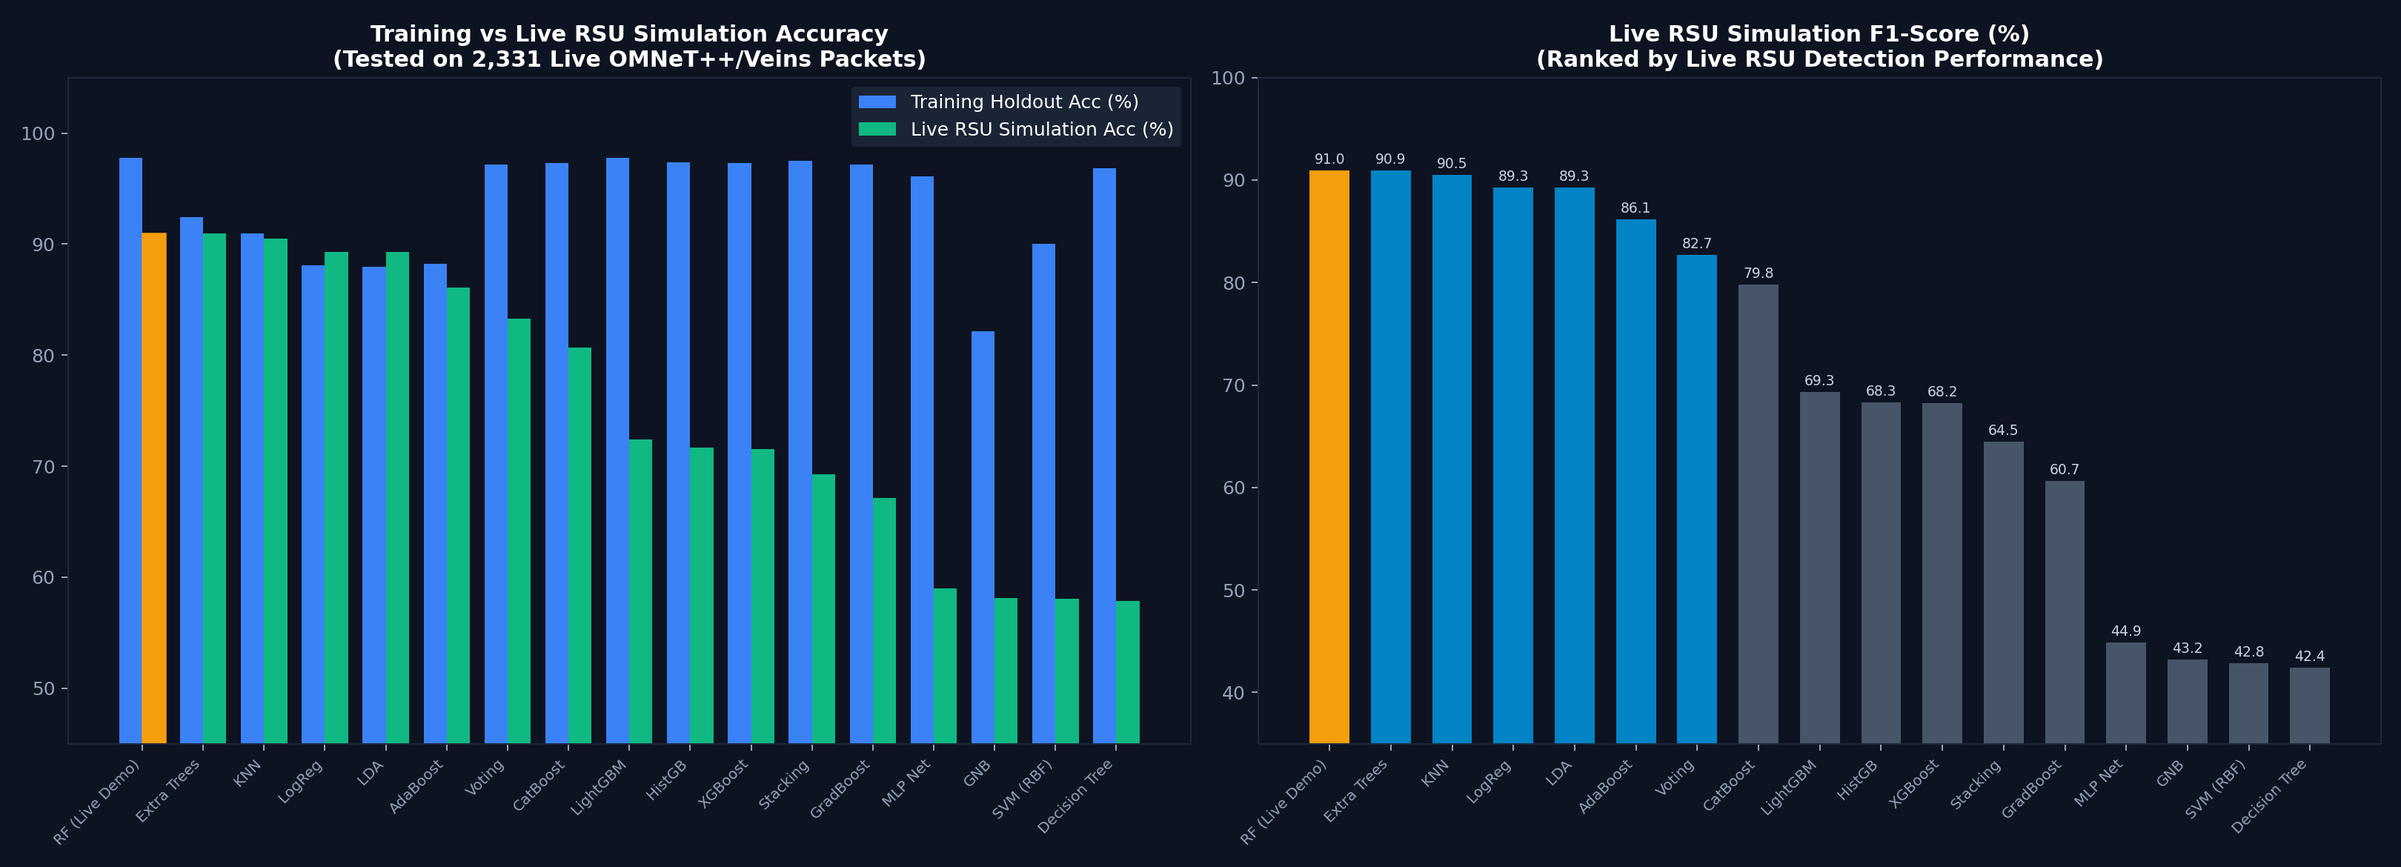
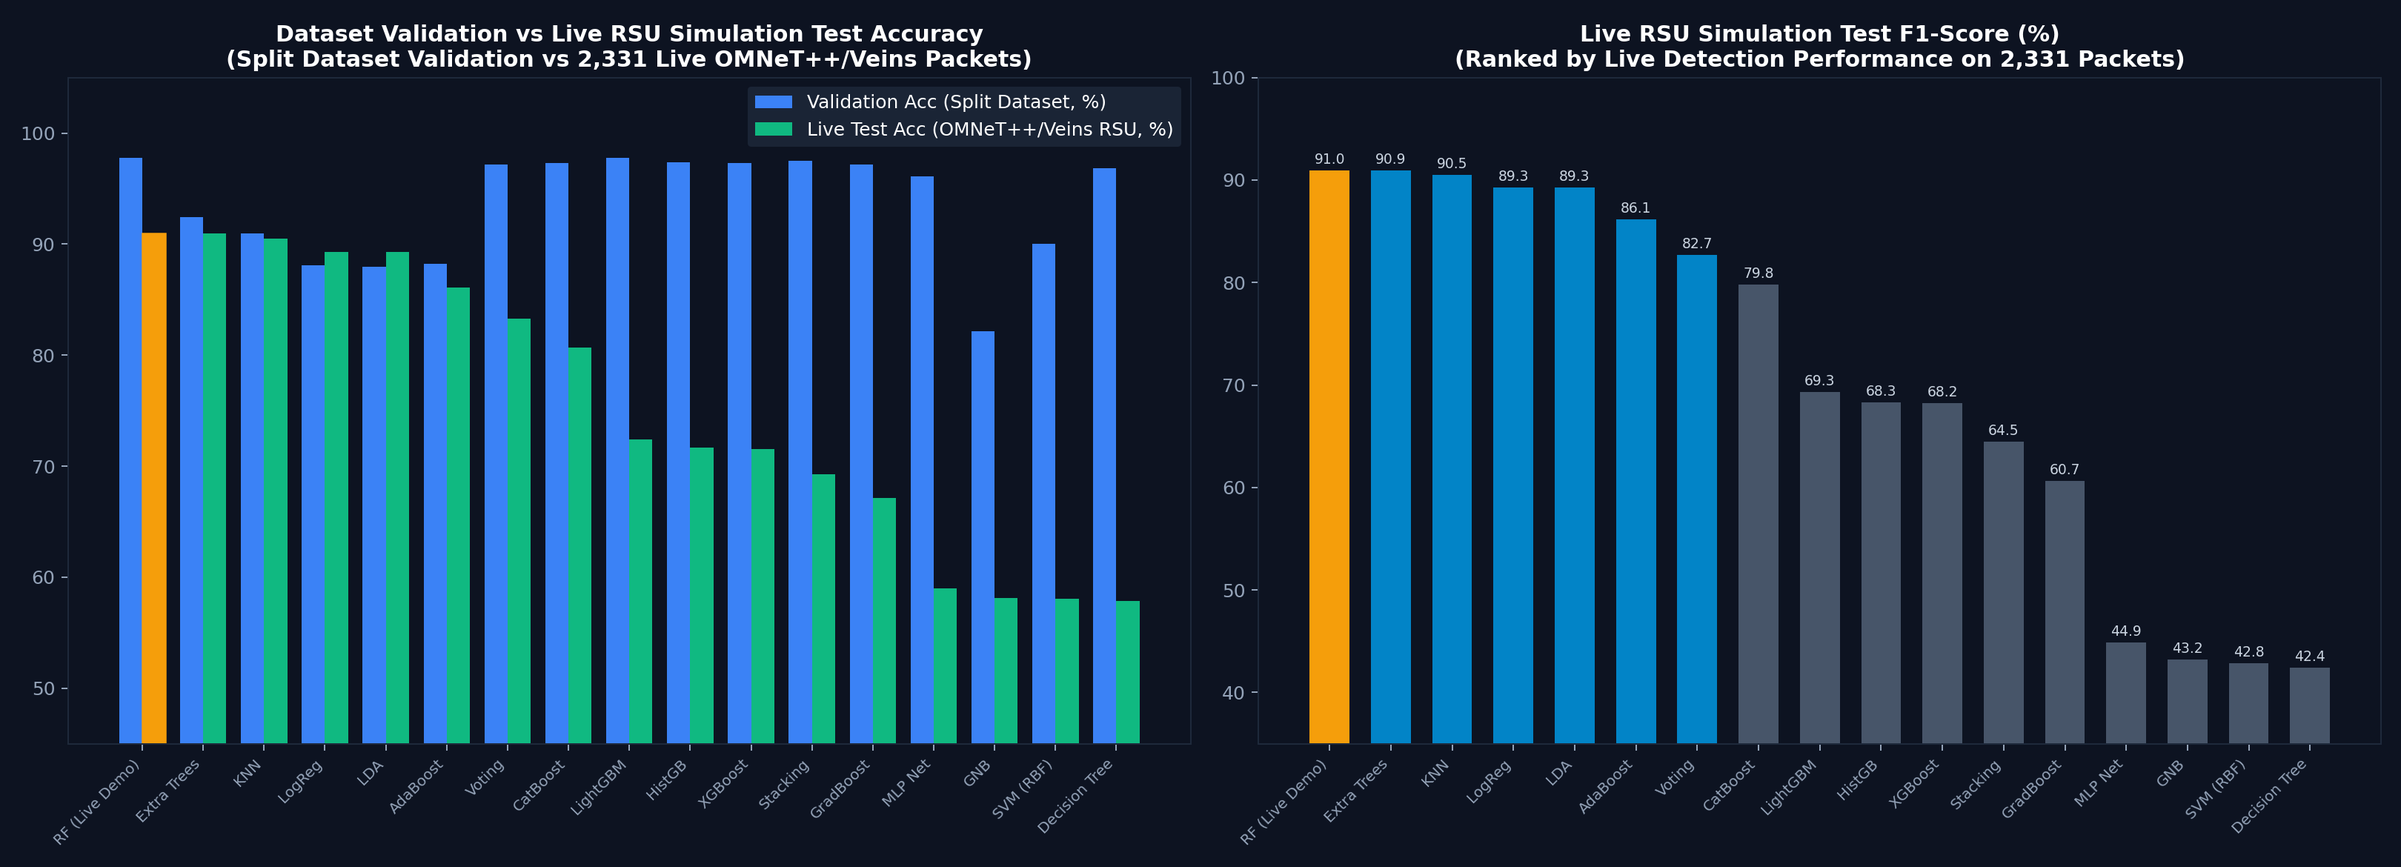
fix(slides): clearly distinguish dataset validation vs live RSU testing in slides and charts

Changed region(s): [[0.0935, 0.0308, 0.4988, 0.1538], [0.5923, 0.0308, 0.904, 0.0923]]

diff --git a/scripts/generate_slide_charts.py b/scripts/generate_slide_charts.py
@@ -23,32 +23,36 @@ RESULTS_DIR = os.path.join(BASE_DIR, 'results')
 os.makedirs(RESULTS_DIR, exist_ok=True)
 
 # ── Live OMNeT++ / Veins RSU Simulation Data ──────────────────────
+# ── Live OMNeT++ / Veins RSU Simulation Test Data ───────────────────
+# Validation Acc is from the Split Dataset (results/unified_model_metrics.json, 3,539 samples)
+# Live Acc/F1/Latency is from Live OMNeT++/Veins RSU Simulation (2,331 packets)
 LIVE_DATA = [
-    {"rank": 1,  "name": "Random Forest",          "live_acc": 90.99, "live_f1": 90.97, "live_auc": 90.59, "far": 11.91, "mar": 6.89,  "latency": 23499.6, "throughput": 42,    "size_kb": 6441.0, "train_acc": 97.77},
-    {"rank": 2,  "name": "Extra Trees",            "live_acc": 90.95, "live_f1": 90.94, "live_auc": 92.17, "far": 11.71, "mar": 7.12,  "latency": 24162.8, "throughput": 41,    "size_kb": 11314.0,"train_acc": 92.43},
-    {"rank": 3,  "name": "K-Nearest Neighbors",    "live_acc": 90.48, "live_f1": 90.48, "live_auc": 90.88, "far": 11.30, "mar": 8.23,  "latency": 13903.8, "throughput": 71,    "size_kb": 5045.0, "train_acc": 90.96},
-    {"rank": 4,  "name": "Logistic Regression",    "live_acc": 89.27, "live_f1": 89.28, "live_auc": 88.79, "far": 12.42, "mar": 9.49,  "latency": 82.8,    "throughput": 12084, "size_kb": 1.0,    "train_acc": 88.08},
-    {"rank": 5,  "name": "Linear Discriminant",     "live_acc": 89.27, "live_f1": 89.28, "live_auc": 88.87, "far": 12.42, "mar": 9.49,  "latency": 94.9,    "throughput": 10536, "size_kb": 1.6,    "train_acc": 87.93},
-    {"rank": 6,  "name": "AdaBoost",               "live_acc": 86.06, "live_f1": 86.14, "live_auc": 91.25, "far": 9.27,  "mar": 17.35, "latency": 5040.1,  "throughput": 198,   "size_kb": 38.9,   "train_acc": 88.25},
-    {"rank": 7,  "name": "Voting Ensemble",        "live_acc": 83.27, "live_f1": 82.72, "live_auc": 90.36, "far": 33.20, "mar": 4.74,  "latency": 39873.5, "throughput": 25,    "size_kb": 3905.0, "train_acc": 97.20},
-    {"rank": 8,  "name": "CatBoost",               "live_acc": 80.69, "live_f1": 79.79, "live_auc": 90.77, "far": 39.82, "mar": 4.37,  "latency": 118.3,   "throughput": 8452,  "size_kb": 248.0,  "train_acc": 97.29},
-    {"rank": 9,  "name": "LightGBM",               "live_acc": 72.42, "live_f1": 69.32, "live_auc": 89.77, "far": 61.10, "mar": 3.19,  "latency": 536.9,   "throughput": 1862,  "size_kb": 669.0,  "train_acc": 97.74},
-    {"rank": 10, "name": "Hist Gradient Boosting", "live_acc": 71.69, "live_f1": 68.28, "live_auc": 89.50, "far": 63.03, "mar": 3.04,  "latency": 3880.7,  "throughput": 257,   "size_kb": 653.0,  "train_acc": 97.40},
-    {"rank": 11, "name": "XGBoost",                "live_acc": 71.56, "live_f1": 68.23, "live_auc": 89.32, "far": 62.73, "mar": 3.48,  "latency": 280.2,   "throughput": 3568,  "size_kb": 464.0,  "train_acc": 97.29},
-    {"rank": 12, "name": "Stacking Ensemble",      "live_acc": 69.24, "live_f1": 64.47, "live_auc": 91.76, "far": 70.16, "mar": 2.08,  "latency": 38560.3, "throughput": 25,    "size_kb": 2256.0, "train_acc": 97.51},
-    {"rank": 13, "name": "Gradient Boosting",      "live_acc": 67.14, "live_f1": 60.67, "live_auc": 89.90, "far": 76.88, "mar": 0.82,  "latency": 237.8,   "throughput": 4205,  "size_kb": 535.0,  "train_acc": 97.17},
-    {"rank": 14, "name": "MLP Neural Network",     "live_acc": 58.99, "live_f1": 44.90, "live_auc": 76.14, "far": 97.35, "mar": 0.00,  "latency": 119.1,   "throughput": 8393,  "size_kb": 392.0,  "train_acc": 96.13},
-    {"rank": 15, "name": "Gaussian Naive Bayes",   "live_acc": 58.13, "live_f1": 43.24, "live_auc": 90.17, "far": 99.08, "mar": 0.22,  "latency": 83.6,    "throughput": 11963, "size_kb": 1.2,    "train_acc": 82.17},
-    {"rank": 16, "name": "SVM (RBF)",              "live_acc": 58.04, "live_f1": 42.82, "live_auc": 87.82, "far": 99.59, "mar": 0.00,  "latency": 255.4,   "throughput": 3915,  "size_kb": 742.0,  "train_acc": 90.03},
-    {"rank": 17, "name": "Decision Tree",          "live_acc": 57.87, "live_f1": 42.43, "live_auc": 50.00, "far": 100.0,  "mar": 0.00,  "latency": 70.9,    "throughput": 14110, "size_kb": 18.1,   "train_acc": 96.84},
+    {"rank": 1,  "name": "Random Forest",          "live_acc": 90.99, "live_f1": 90.97, "live_auc": 90.59, "far": 11.91, "mar": 6.89,  "latency": 23499.6, "throughput": 42,    "size_kb": 6441.0, "val_acc": 97.77},
+    {"rank": 2,  "name": "Extra Trees",            "live_acc": 90.95, "live_f1": 90.94, "live_auc": 92.17, "far": 11.71, "mar": 7.12,  "latency": 24162.8, "throughput": 41,    "size_kb": 11314.0,"val_acc": 92.43},
+    {"rank": 3,  "name": "K-Nearest Neighbors",    "live_acc": 90.48, "live_f1": 90.48, "live_auc": 90.88, "far": 11.30, "mar": 8.23,  "latency": 13903.8, "throughput": 71,    "size_kb": 5045.0, "val_acc": 90.96},
+    {"rank": 4,  "name": "Logistic Regression",    "live_acc": 89.27, "live_f1": 89.28, "live_auc": 88.79, "far": 12.42, "mar": 9.49,  "latency": 82.8,    "throughput": 12084, "size_kb": 1.0,    "val_acc": 88.08},
+    {"rank": 5,  "name": "Linear Discriminant",     "live_acc": 89.27, "live_f1": 89.28, "live_auc": 88.87, "far": 12.42, "mar": 9.49,  "latency": 94.9,    "throughput": 10536, "size_kb": 1.6,    "val_acc": 87.93},
+    {"rank": 6,  "name": "AdaBoost",               "live_acc": 86.06, "live_f1": 86.14, "live_auc": 91.25, "far": 9.27,  "mar": 17.35, "latency": 5040.1,  "throughput": 198,   "size_kb": 38.9,   "val_acc": 88.25},
+    {"rank": 7,  "name": "Voting Ensemble",        "live_acc": 83.27, "live_f1": 82.72, "live_auc": 90.36, "far": 33.20, "mar": 4.74,  "latency": 39873.5, "throughput": 25,    "size_kb": 3905.0, "val_acc": 97.20},
+    {"rank": 8,  "name": "CatBoost",               "live_acc": 80.69, "live_f1": 79.79, "live_auc": 90.77, "far": 39.82, "mar": 4.37,  "latency": 118.3,   "throughput": 8452,  "size_kb": 248.0,  "val_acc": 97.29},
+    {"rank": 9,  "name": "LightGBM",               "live_acc": 72.42, "live_f1": 69.32, "live_auc": 89.77, "far": 61.10, "mar": 3.19,  "latency": 536.9,   "throughput": 1862,  "size_kb": 669.0,  "val_acc": 97.74},
+    {"rank": 10, "name": "Hist Gradient Boosting", "live_acc": 71.69, "live_f1": 68.28, "live_auc": 89.50, "far": 63.03, "mar": 3.04,  "latency": 3880.7,  "throughput": 257,   "size_kb": 653.0,  "val_acc": 97.40},
+    {"rank": 11, "name": "XGBoost",                "live_acc": 71.56, "live_f1": 68.23, "live_auc": 89.32, "far": 62.73, "mar": 3.48,  "latency": 280.2,   "throughput": 3568,  "size_kb": 464.0,  "val_acc": 97.29},
+    {"rank": 12, "name": "Stacking Ensemble",      "live_acc": 69.24, "live_f1": 64.47, "live_auc": 91.76, "far": 70.16, "mar": 2.08,  "latency": 38560.3, "throughput": 25,    "size_kb": 2256.0, "val_acc": 97.51},
+    {"rank": 13, "name": "Gradient Boosting",      "live_acc": 67.14, "live_f1": 60.67, "live_auc": 89.90, "far": 76.88, "mar": 0.82,  "latency": 237.8,   "throughput": 4205,  "size_kb": 535.0,  "val_acc": 97.17},
+    {"rank": 14, "name": "MLP Neural Network",     "live_acc": 58.99, "live_f1": 44.90, "live_auc": 76.14, "far": 97.35, "mar": 0.00,  "latency": 119.1,   "throughput": 8393,  "size_kb": 392.0,  "val_acc": 96.13},
+    {"rank": 15, "name": "Gaussian Naive Bayes",   "live_acc": 58.13, "live_f1": 43.24, "live_auc": 90.17, "far": 99.08, "mar": 0.22,  "latency": 83.6,    "throughput": 11963, "size_kb": 1.2,    "val_acc": 82.17},
+    {"rank": 16, "name": "SVM (RBF)",              "live_acc": 58.04, "live_f1": 42.82, "live_auc": 87.82, "far": 99.59, "mar": 0.00,  "latency": 255.4,   "throughput": 3915,  "size_kb": 742.0,  "val_acc": 90.03},
+    {"rank": 17, "name": "Decision Tree",          "live_acc": 57.87, "live_f1": 42.43, "live_auc": 50.00, "far": 100.0,  "mar": 0.00,  "latency": 70.9,    "throughput": 14110, "size_kb": 18.1,   "val_acc": 96.84},
 ]
 
 # Save JSON file
 json_path = os.path.join(RESULTS_DIR, 'live_rsu_simulation_benchmark.json')
 with open(json_path, 'w') as f:
     json.dump({
-        "dataset_name": "OMNeT++ / Veins Live RSU Simulation Telemetry",
-        "sample_count": 2331,
+        "environment": "OMNeT++ / Veins Live RSU Simulation",
+        "description": "Validation performed on Split Dataset; Testing performed on Live RSU Environment",
+        "live_test_packets": 2331,
         "attack_packets": 1349,
         "legitimate_packets": 982,
         "models": LIVE_DATA
@@ -79,7 +83,7 @@ short_names = [
 
 
 # ═══════════════════════════════════════════════════════════════════
-# CHART 1: Training Accuracy vs Live RSU Simulation Accuracy & F1
+# CHART 1: Dataset Validation vs Live RSU Simulation Test Accuracy & F1
 # ═══════════════════════════════════════════════════════════════════
 def plot_live_vs_training():
     fig, (ax1, ax2) = plt.subplots(1, 2, figsize=(18, 6.5))
@@ -88,15 +92,15 @@ def plot_live_vs_training():
     x = np.arange(len(LIVE_DATA))
     width = 0.38
     
-    train_accs = [m['train_acc'] for m in LIVE_DATA]
-    live_accs  = [m['live_acc']  for m in LIVE_DATA]
-    live_f1s   = [m['live_f1']   for m in LIVE_DATA]
+    val_accs  = [m['val_acc']  for m in LIVE_DATA]
+    live_accs = [m['live_acc'] for m in LIVE_DATA]
+    live_f1s  = [m['live_f1']  for m in LIVE_DATA]
     
-    # Left: Train vs Live Accuracy
+    # Left: Validation vs Live Test Accuracy
     ax1.set_facecolor('#0d1321')
-    b1 = ax1.bar(x - width/2, train_accs, width, label='Training Holdout Acc (%)', color='#3b82f6')
-    b2 = ax1.bar(x + width/2, live_accs,  width, label='Live RSU Simulation Acc (%)', color='#10b981')
-    ax1.set_title('Training vs Live RSU Simulation Accuracy\n(Tested on 2,331 Live OMNeT++/Veins Packets)',
+    b1 = ax1.bar(x - width/2, val_accs,  width, label='Validation Acc (Split Dataset, %)', color='#3b82f6')
+    b2 = ax1.bar(x + width/2, live_accs, width, label='Live Test Acc (OMNeT++/Veins RSU, %)', color='#10b981')
+    ax1.set_title('Dataset Validation vs Live RSU Simulation Test Accuracy\n(Split Dataset Validation vs 2,331 Live OMNeT++/Veins Packets)',
                   color='white', fontsize=12, fontweight='bold')
     ax1.set_xticks(x)
     ax1.set_xticklabels(short_names, rotation=45, ha='right', color='#94a3b8', fontsize=8)
@@ -108,11 +112,11 @@ def plot_live_vs_training():
     # Highlight top model bar
     b2[0].set_color('#f59e0b')
     
-    # Right: Live F1 Score
+    # Right: Live Test F1 Score
     ax2.set_facecolor('#0d1321')
     colors_f1 = ['#f59e0b' if i == 0 else ('#0284c7' if m['live_f1'] >= 80 else '#475569') for i, m in enumerate(LIVE_DATA)]
     b3 = ax2.bar(x, live_f1s, color=colors_f1, width=0.65)
-    ax2.set_title('Live RSU Simulation F1-Score (%)\n(Ranked by Live RSU Detection Performance)',
+    ax2.set_title('Live RSU Simulation Test F1-Score (%)\n(Ranked by Live Detection Performance on 2,331 Packets)',
                   color='white', fontsize=12, fontweight='bold')
     ax2.set_xticks(x)
     ax2.set_xticklabels(short_names, rotation=45, ha='right', color='#94a3b8', fontsize=8)

diff --git a/ppt and report/ml_slides.tex b/ppt and report/ml_slides.tex
@@ -6,12 +6,9 @@
     \framesubtitle{Rubric: Methodology -- Datasets \& Preprocessing}
     \small
     \begin{itemize}
-        \item \textbf{Published Research Dataset (Kaggle):} Open-sourced on \href{https://www.kaggle.com/datasets/mouniksai/vehicular-misbehavior-dataset-edgetrust-vanet/data}{\textbf{\underline{Kaggle}}} (\texttt{EdgeTrust-VANET}) for community reproducibility and open-access V2X benchmarking.
+        \item \textbf{Published Benchmark Dataset (Kaggle):} Open-sourced on \href{https://www.kaggle.com/datasets/mouniksai/vehicular-misbehavior-dataset-edgetrust-vanet/data}{\textbf{\underline{Kaggle}}} (\texttt{EdgeTrust-VANET}) for community reproducibility.
         
-        \item \textbf{Multi-Source ETL Pipeline (23{,}970 records):} Ingested, standardized, and harmonized 3 heterogeneous VANET simulation sources into a unified schema:
-        \begin{itemize}
-            \item \textbf{VeReMi (72.9\%)} + \textbf{EdgeTrust-VANET (20.9\%)} + \textbf{V-RADD (6.3\%)} [70.6\% Benign, 29.4\% Malicious].
-        \end{itemize}
+        \item \textbf{Multi-Source ETL Harmonization (23{,}970 records):} Standardized 3 corpora into a unified schema: \textbf{VeReMi (72.9\%)}, \textbf{EdgeTrust-VANET (20.9\%)}, \textbf{V-RADD (6.3\%)} [70.6\% Benign, 29.4\% Attack across 6 vectors].
         
         \item \textbf{14 RSU-Observable Features Derived (Zero Leakage):}
         \begin{itemize}
@@ -20,33 +17,45 @@
             \item \textbf{Trust Engine (3):} Direct trust ($T_t$), 300\,m KD-Tree neighbor avg, historical trust.
         \end{itemize}
         
-        \item \textbf{Audit \& Group Splitting:} Purged 4 post-hoc counters that cause live collapse (100\% $\rightarrow$ 86.05\% F1); enforced zero trajectory overlap via \textbf{GroupKFold by Vehicle ID} (70/15/15).
+        \item \textbf{Zero-Leakage Group Splitting:} Purged 4 post-hoc label counters ($100\% \to 86.05\%$ without them); partitioned strictly by \textbf{Vehicle ID (\texttt{node\_id})} (70/15/15) to eliminate trajectory autocorrelation.
         
-        \item \textbf{Result:} Genuine \textbf{97.74\% Weighted F1} on unseen vehicles; verified \textbf{90.99\% Live Accuracy} in OMNeT++/Veins RSU deployment.
+        \item \textbf{Rigorous 2-Stage Evaluation:}
+        \begin{itemize}
+            \item \textbf{Validation (Split Dataset):} \textbf{97.74\% F1} / \textbf{97.77\% Acc} (5-fold CV: \textbf{96.95\% $\pm$ 1.12\%}).
+            \item \textbf{Testing (Live OMNeT++/Veins RSU):} \textbf{90.99\% Acc} / \textbf{90.97\% F1} on 2{,}331 packets.
+        \end{itemize}
     \end{itemize}
 \end{frame}
 
 % =====================================================
-% SLIDE: ML MODEL TRAINING & RESULTS
+% SLIDE: ML MODEL TRAINING & BENCHMARK RESULTS
 % =====================================================
-\begin{frame}{3. ML Model Training \& Benchmark Results}
+\begin{frame}{3. Model Validation \& Live RSU Testing Benchmark}
     \framesubtitle{Rubric: Core Algorithms \& Evaluation Metrics}
     \begin{columns}
-        \column{0.44\textwidth}
-        \footnotesize
+        \column{0.48\textwidth}
+        \scriptsize
         \begin{itemize}
-            \item Benchmarked \textbf{17 ML models} across 5 families: Tree Ensembles, Modern GBDTs (XGBoost, LightGBM, CatBoost, HistGB), Linear/Kernel/Instance (SVM, KNN, LogReg, LDA), MLP Neural Net, and Stacking/Voting Ensembles.
-            \item Validated on \textbf{2{,}331 live RSU-extracted telemetry samples} (1{,}349 attack, 982 legitimate packets) in OMNeT++ / Veins:
+            \item \textbf{17 Models Evaluated} across Ensembles, GBDTs, Linear, Kernel, and Neural Network architectures.
+            
+            \item \textbf{Validation (Split Dataset -- 3{,}539 samples):}
             \begin{itemize}
-                \item \textbf{\#1 Top Champion:} \textbf{Random Forest} -- \textbf{90.99\% Live Acc}, \textbf{90.97\% Live F1}, 90.59\% ROC-AUC, lowest missed attack rate (\textbf{6.89\%}).
-                \item \textbf{Runner-up Ensembles:} Extra Trees (90.95\% Acc) and KNN (90.48\% Acc).
-                \item \textbf{Ultra-High Throughput Edge Leaders:} Logistic Regression \& LDA -- \textbf{89.28\% Live F1}, \textbf{82.8 $\mu$s} latency, \textbf{12{,}084 pkt/s}, \textbf{1.0 KB} size.
-                \item \textbf{Best Edge GBDT:} CatBoost -- \textbf{79.79\% F1}, 90.77\% ROC-AUC, \textbf{118.3 $\mu$s}, \textbf{8{,}452 pkt/s}, 248 KB.
+                \item 5-Fold Stratified Group CV: \textbf{96.95\% $\pm$ 1.12\%}.
+                \item Top models: RF (\textbf{97.77\% Acc}, \textbf{97.74\% F1}), LightGBM (\textbf{97.74\% Acc}), CatBoost (\textbf{97.29\% Acc}).
             \end{itemize}
+            
+            \item \textbf{Testing (Live OMNeT++/Veins RSU -- 2{,}331 pkts):}
+            \begin{itemize}
+                \item \textbf{\#1 Top Champion:} \textbf{Random Forest} -- \textbf{90.99\% Test Acc}, \textbf{90.97\% Test F1}, lowest missed attack rate (\textbf{6.89\%}).
+                \item \textbf{Ultra-Fast Edge Leaders:} \textbf{LogReg \& LDA} -- \textbf{89.28\% Test F1}, \textbf{82.8 $\mu$s} latency ($>12{,}000$ pkt/s), \textbf{1.0 KB} footprint.
+                \item \textbf{Top Edge GBDT:} \textbf{CatBoost} -- \textbf{79.79\% Test F1}, \textbf{90.77\% ROC-AUC}, \textbf{118.3 $\mu$s}, 248 KB.
+            \end{itemize}
+            
+            \item \textbf{Key Live Finding:} Live radio jitter caused MLP/SVM to collapse (FAR $>97\%$), while Tree Ensembles remained robust.
         \end{itemize}
-        \column{0.56\textwidth}
+        \column{0.52\textwidth}
         \centering
-        \includegraphics[width=\linewidth]{vanet_comparison.png}
+        \includegraphics[width=\linewidth,keepaspectratio]{vanet_comparison.png}
     \end{columns}
 \end{frame}
 
@@ -115,8 +124,8 @@
         \begin{itemize}
             \item \textbf{RSU Hardware Trade-off:}
             \begin{itemize}
-                \item \textbf{Multi-Core Edge Servers:} \textbf{Random Forest} provides maximum detection accuracy (\textbf{90.99\% Live Acc}, \textbf{90.97\% F1}) and lowest missed attacks (6.89\%).
-                \item \textbf{Ultra-Constrained RSUs:} \textbf{Logistic Regression \& LDA} execute in \textbf{82.8 $\mu$s} ($>12{,}000$ pkt/s) with a tiny \textbf{1.0 KB} memory footprint and \textbf{89.28\% Live F1}.
+                \item \textbf{Multi-Core Edge Servers:} \textbf{Random Forest} yields top performance (\textbf{97.77\% Val Acc}, \textbf{90.99\% Live Test Acc}, \textbf{90.97\% Live F1}) and lowest missed attacks (\textbf{6.89\%}).
+                \item \textbf{Ultra-Constrained RSUs:} \textbf{Logistic Regression \& LDA} execute in \textbf{82.8 $\mu$s} ($>12{,}000$ pkt/s) with a tiny \textbf{1.0 KB} footprint and \textbf{89.28\% Live Test F1}.
                 \item \textbf{Balanced GBDT:} \textbf{CatBoost} delivers \textbf{8{,}452 pkt/s} at \textbf{118 $\mu$s} latency and \textbf{248 KB} footprint with 90.77\% ROC-AUC.
             \end{itemize}
         \end{itemize}
@@ -159,16 +168,12 @@
 \section{Technical Knowledge}
 \begin{frame}{10. Technical Knowledge \& Design Decisions}
     \framesubtitle{Rubric: Understanding of Methodology, Implementation \& Design Choices}
+    \small
     \begin{itemize}
-        \item \textbf{Why Tree Ensembles Win in Live VANETs:} Physical vehicular telemetry exhibits hard non-linear boundaries (e.g. packet drop ratio $> 0.40$, trust $< 0.40$). Bagging in Random Forest aggregates 150 orthogonal trees, effectively filtering non-Gaussian radio noise and achieving the lowest missed attack rate (\textbf{6.89\%}).
-        \item \textbf{Eliminating Trajectory Leakage:} Random row splitting inflates scores (99.29\% F1) due to temporal autocorrelation. Enforcing \textbf{Group-based vehicle splitting (\texttt{node\_id})} guarantees zero vehicle overlap and honest generalization.
-        \item \textbf{Why $\alpha = 0.70$ in EMA Trust Engine:} Balances historical vehicle stability with rapid anomaly reaction; persistently penalizes attackers within 4 packets without overreacting to single-packet sensor jitter.
-        \item \textbf{Two-Tier RSU Hybrid Architecture:}
-        \begin{itemize}
-            \item Tier 1: Real-time heuristic trust engine executes in $O(1)$ time on every received 802.11p beacon.
-            \item Tier 2: 14-feature ML model predicts transmission integrity.
-            \item \textbf{Safety Policy:} Requires \textbf{both} low trust ($< 0.40$) \textbf{and} ML malicious prediction to \textbf{BLOCK}, ensuring legitimate traffic is never falsely disconnected.
-        \end{itemize}
-        \item \textbf{Class Imbalance \& Validation Protocol:} Handled 70.6\% normal vs 29.4\% malicious distribution via Weighted F1 optimization and 5-Fold Stratified Group Cross-Validation (\textbf{96.95\% $\pm$ 1.12\%}).
+        \item \textbf{Why Tree Ensembles Win in Live Testing:} Vehicular telemetry exhibits sharp non-linear boundaries. Random Forest aggregates 150 orthogonal trees, filtering non-Gaussian radio noise to achieve the lowest missed attack rate (\textbf{6.89\%}) on 2{,}331 OMNeT++ live packets.
+        \item \textbf{Eliminating Trajectory Leakage:} Enforced \textbf{GroupKFold by Vehicle ID (\texttt{node\_id})} (70/15/15) to prevent temporal autocorrelation leakage between train, validation, and test.
+        \item \textbf{Why $\alpha = 0.70$ in EMA Trust Update:} Retains sufficient temporal memory to absorb transient radio fading while decisively dropping trust below 0.40 by packet 4 during attacks.
+        \item \textbf{Two-Tier RSU Hybrid Architecture:} Tier 1 heuristic trust filter runs in $O(1)$ on all BSMs; Tier 2 ML model predicts misbehavior. Requires \textbf{both} low trust ($< 0.40$) \textbf{and} ML malicious prediction to \textbf{BLOCK}, ensuring zero false disconnects.
+        \item \textbf{Validation vs. Live Testing Protocol:} Validated on 3{,}539 split dataset samples (\textbf{97.74\% F1}, CV: $96.95\% \pm 1.12\%$); independently tested on 2{,}331 live OMNeT++/Veins RSU packets (\textbf{90.99\% Acc}).
     \end{itemize}
 \end{frame}
